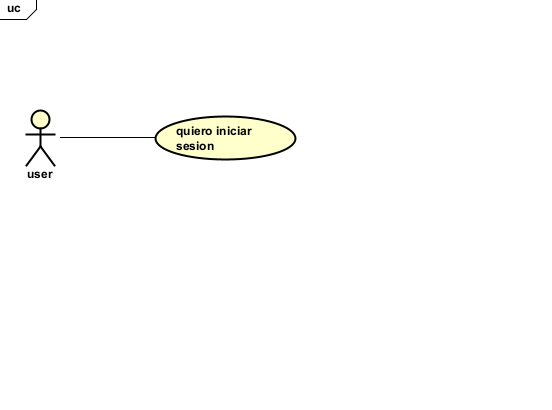
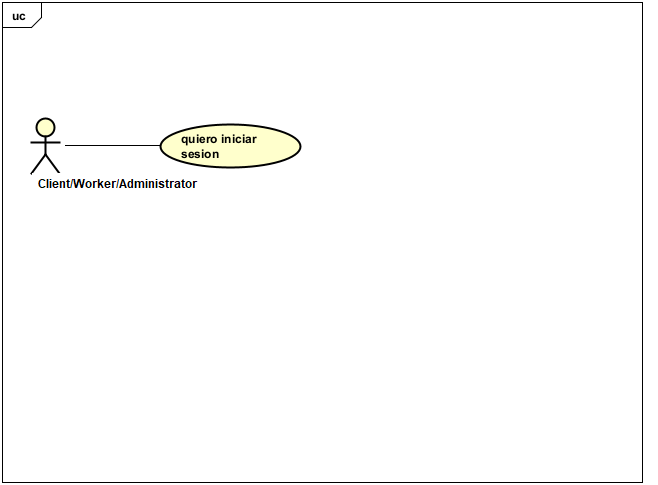
feat: se corrigieron ciertos requisitos

Changed region(s): [[0.0, 0.0, 0.9855, 1.0]]

diff --git a/OficioYa/src/main/resources/docs/requirments/requirments.md b/OficioYa/src/main/resources/docs/requirments/requirments.md
@@ -16,7 +16,7 @@ El sistema de OFICIOYA debe tener la capacidad de:
 
 4. El sistema debe permitir a un usuario autenticado cambiar su contraseña, validando previamente su contraseña actual.
 
-5. El sistema debe soportar la asignación de uno o varios roles a un mismo usuario (Trabajador, Contratante, Administrador).
+5. El sistema debe soportar la asignación de uno o varios roles a un mismo usuario (Client/Worker/Administrator).
 
 6. El sistema debe restringir el acceso a funcionalidades según el rol del usuario autenticado.
 
@@ -50,13 +50,13 @@ El sistema de OFICIOYA debe tener:
 | Campo | Descripción |
 |------|-------------|
 | **ID** | RF-01 |
-| **Nombre del requerimiento** | INICION DE SESIÓN  |
-| **Descripción** | El sistema debe permitir el inicio de sesión mediante usuario y contraseña, validando las credenciales contra la información de usuario gestionada por el User domain. Cada usuario debe ser unico, esto se validará por el microservicio USER DOMAIN donde deben validar esto al momento de crearla, la contraseña debe cumplir unos requisistos, si  se cumplen los requisitos , se revisa si la contraseña es la del usuario |
-| **Precondiciones** | Para que el sistema cumpla con este requerimiento,primero el usuario ya debio ser creado, debe ademas tener una contraseña que cumpla con los requisitos de seguridad estipulados . |
-| **Actor** |user |
-| **Flujo principal** | 1. el usuario ingresa a la aplicación 2. el usaurio ingresas sus credenciales (user y password) 3. se revisa si password ingresada cumple con los requisitos pleaneados 4. se realiza el proceso de autenticación  | 
-| **Diagrama de caso de uso** | ![Diagrama de caso de uso - Gestión del Torneo](../uml/CaseOfUse_GestionTorneo.png) |
-| **Poscondiciones** | Se espera como resultado que el torneo haya sido creado, actualizado o que su estado haya cambiado exitosamente en el sistema, reflejando la información actualizada para todos los usuarios. |
+| **Nombre del requerimiento** | INICIO DE SESIÓN  |
+| **Descripción** | El sistema debe permitir el inicio de sesión mediante usuario y contraseña, validando las credenciales contra la información de usuario gestionada por el User domain. Cada usuario debe ser único, esto se validará por el microservicio USER DOMAIN donde deben validar esto al momento de crearla, la contraseña debe cumplir unos requisitos, si  se cumplen los requisitos , se revisa si la contraseña es la del usuario |
+| **Precondiciones** | Para que el sistema cumpla con este requerimiento,primero el usuario ya debió haber sido creado, debe además tener una contraseña que cumpla con los requisitos de seguridad estipulados. |
+| **Actor** |Client/Worker/Administrator  |
+| **Flujo principal** | 1. El usuario ingresa a la aplicación<br>2. El usuario ingresa sus credenciales (user y password)<br>3. Se revisa si la contraseña ingresada cumple con los requisitos establecidos<br>4. Se realiza el proceso de autenticación.<br>5. Si las credenciales son válidas, el sistema genera un token JWT.<br>6. Si las credenciales son inválidas, el sistema rechaza el inicio de sesión. |
+| **Diagrama de caso de uso** | ![Diagrama de caso de uso - inicio de sesion](../images/iniciarSesion.png) |
+| **Postcondiciones** | Se espera como resultado que el usuario se haya autenticado exitosamente en el sistema, reflejando la información actualizada para todos los usuarios. |
 
 
 ### 2.2 Requerimiento Funcional 2
@@ -65,12 +65,12 @@ El sistema de OFICIOYA debe tener:
 |------|-------------|
 | **ID** | RF-02 |
 | **Nombre del requerimiento** | Rechazo inicio sesión |
-| **Descripción** | El sistema debe rechazar el inicio de sesión si la contraserña de un usuario es incorrecta o si el usuario no existe, el si se comprueba que el user no existe, se rechaza de una vez pero se si existe se comprueba si la contraseña ingresada cumple con los reuisitos, si no cumple se recahza automaticamente, si se cumple los requisitos se valida si es la contraseña y si no es se rechaza |
+| **Descripción** | El sistema debe rechazar el inicio de sesión si la contraseña de un usuario es incorrecta o si el usuario no existe, si se comprueba que el user no existe, se rechaza de una vez, pero si existe se comprueba si la contraseña ingresada cumple con los requisitos, si no cumple se recahza automaticamente, si se cumple los requisitos se valida si es la contraseña y si no es se rechaza |
 | **Precondiciones** | Para que el sistema cumpla con este requerimiento, el user debe tener una cuenta con credenciales válidas (nombre de usuario y contraseña) |
-| **Actor** | User|
+| **Actor** | Sistema|
 | **Flujo principal** | 1. El usuario ingresa sus credencial, tanto usuario como contraseña.<br>2. El sistema revisa si la contraseña ingresada cumple con los requisitos de seguridad, si no los cumple se rechaza.<br>3. El sistema valida las credenciales ingresadas .<br>4. si son incorrectas se rechazan las credenciales y se avisa al usuario sin revelar si es el usuario o la contraseña lo que es incorrecto |
-| **Diagrama de caso de uso** | ![Diagrama de caso de uso - Registrar Equipo](../uml/CaseOfUse_RegistrarEquipo.png) |
-| **Poscondiciones** | Se espera como resultado que el usuario este informado que las credenciales ingreadas estna mal y que haga las respectivas correciones |
+| **Diagrama de caso de uso** | ![Diagrama de caso de uso - Rechazo inicio sesion](../images/rechazoInicioSesion.png) |
+| **Postcondiciones** | Se espera como resultado que el usuario este informado que las credenciales ingreadas estna mal y que haga las respectivas correciones |
 
 ### 2.3 Requerimiento Funcional 3
 
@@ -84,7 +84,7 @@ El sistema de OFICIOYA debe tener:
 | **Actor** | Sistema |
 | **Flujo principal** | 1. El usuario ingresa una contraseña para ser cambiada.<br>2. El sistema evalúa las condiciones de seguridad de la contraseña.<br>3. Si no cumple, muestra mensaje de error.<br>4. Si cumple, permite continuar. |
 | **Diagrama de caso de uso** | ![futura imagen ya que yo la pondre despues](../uml/futura_imagen.png) |
-| **Poscondiciones** | *No aplica (mismas que su respectivo proceso base).* |
+| **Postcondiciones** | *No aplica (mismas que su respectivo proceso base).* |
 
 ### 2.4 Requerimiento Funcional 4
 
@@ -97,7 +97,7 @@ El sistema de OFICIOYA debe tener:
 | **Actor** | Usuario |
 | **Flujo principal** | 1. El usuario accede a la opción de cambio de contraseña.<br>2. si el usuario desea primero cambiar la contraseña ya autenticado , ingresa su contraseña actual yluego la nueva contraseña que debe cumplir con los requisitos de seguridad.<br>3. si el usuario desea cambiar la contraseña sin autenticarse primero , podra realizar otro proceso de autenticación el cual consiste en mandarle un codigo de seguridad por sms al celular registrado .<br>4. El sistema valida la contraseña nueva y si cumple con los requisitos , actualiza la contraseña y notifica el éxito de la operación. |
 | **Diagrama de caso de uso** | ![futura imagen ya que yo la pondre despues](../uml/futura_imagen.png) |
-| **Poscondiciones** | La contraseña se actualiza en el sistema y será requerida para el próximo inicio de sesión. |
+| **Postcondiciones** | La contraseña se actualiza en el sistema y será requerida para el próximo inicio de sesión. |
 
 ### 2.5 Requerimiento Funcional 5
 
@@ -105,12 +105,12 @@ El sistema de OFICIOYA debe tener:
 |------|-------------|
 | **ID** | RF-05 |
 | **Nombre del requerimiento** | Asignación de roles |
-| **Descripción** | El sistema debe soportar la asignación de uno o varios roles a un mismo usuario (Trabajador, Administrador). |
+| **Descripción** | El sistema debe soportar la asignación de uno o varios roles a un mismo usuario (Trabajador,Contratante, Administrador). |
 | **Precondiciones** | El usuario debe existir en el dominio de usuarios. |
 | **Actor** | Sistema / Administrador |
-| **Flujo principal** | 1. Se registra un nuevo usuario o se edita uno existente.<br>2. Se envían los roles deseados para el usuario.<br>3. El sistema asocia los roles seleccionados al ID del usuario en la base de datos. |
+| **Flujo principal** | 1.1. Se registra un nuevo usuario .<br>1.2. Se le asignan los roles al usuario nuevo (puede ser trabajador y/o contratante).<br>1.3. El sistema asocia los roles seleccionados al ID del usuario en la base de datos. |
 | **Diagrama de caso de uso** | ![futura imagen ya que yo la pondre despues](../uml/futura_imagen.png) |
-| **Poscondiciones** | El usuario queda con los roles asignados, lo cual definirá sus permisos de acceso. |
+| **Postcondiciones** | El usuario queda con los roles asignados, lo cual definirá sus permisos de acceso. |
 
 ### 2.6 Requerimiento Funcional 6
 
@@ -123,7 +123,7 @@ El sistema de OFICIOYA debe tener:
 | **Actor** | Sistema |
 | **Flujo principal** | 1. El usuario intenta acceder a una ruta protegida.<br>2. El sistema (API Gateway) verifica los roles en el token JWT.<br>3. Si el rol es insuficiente, rechaza la petición (403 Forbidden).<br>4. Si es correcto, permite la petición. |
 | **Diagrama de caso de uso** | ![futura imagen ya que yo la pondre despues](../uml/futura_imagen.png) |
-| **Poscondiciones** | el usuario accede a la ruta  |
+| **Postcondiciones** | el usuario accede a la ruta  |
 
 ### 2.7 Requerimiento Funcional 7
 
@@ -136,7 +136,7 @@ El sistema de OFICIOYA debe tener:
 | **Actor** | Sistema |
 | **Flujo principal** | 1. Credenciales validadas exitosamente.<br>2. El sistema crea el token JWT con los claims correspondientes.<br>3. El token es firmado y enviado al cliente en la respuesta. |
 | **Diagrama de caso de uso** | ![futura imagen ya que yo la pondre despues](../uml/futura_imagen.png) |
-| **Poscondiciones** 
+| **Postcondiciones** 
 ### 2.8 Requerimiento Funcional 8
 
 | Campo | Descripción |
@@ -148,18 +148,6 @@ El sistema de OFICIOYA debe tener:
 | **Actor** | Sistema |
 | **Flujo principal** | 1. El sistema recibe una contraseña en texto plano.<br>2. Se aplica la función de hash (ej. bcrypt).<br>3. La contraseña cifrada se almacena en base de datos o se compara con la existente. |
 | **Diagrama de caso de uso** | ![futura imagen ya que yo la pondre despues](../uml/futura_imagen.png) |
-| **Poscondiciones** | *No aplica.* |
+| **Postcondiciones** | *No aplica.* |
 
 
-
-## 4. Mockup
-
-### Requerimiento funcional seleccionado: RF-02 — Registrar Equipo
-
-Se seleccionó el requerimiento funcional **RF-02 (Registrar Equipo)** para el diseño de los mockups:
-
-### Diseño de Mockups — Flujo de Registro de Equipo
-
-Los mockups del flujo de navegación para el registro de un equipo fueron diseñados en **Figma** y pueden consultarse en el siguiente enlace:
-
-🔗 **[Ver Mockups en Figma — Flujo de Registro de Equipo](https://www.figma.com/design/NvDN2mIs8itoVR14fFOCbU/Flujo-Registro?node-id=0-1&t=sMDkfjVEIjFY629o-1)**

diff --git a/OficioYa/target/classes/docs/requirments/requirments.md b/OficioYa/target/classes/docs/requirments/requirments.md
@@ -16,7 +16,7 @@ El sistema de OFICIOYA debe tener la capacidad de:
 
 4. El sistema debe permitir a un usuario autenticado cambiar su contraseña, validando previamente su contraseña actual.
 
-5. El sistema debe soportar la asignación de uno o varios roles a un mismo usuario (Trabajador, Contratante, Administrador).
+5. El sistema debe soportar la asignación de uno o varios roles a un mismo usuario (Client/Worker/Administrator).
 
 6. El sistema debe restringir el acceso a funcionalidades según el rol del usuario autenticado.
 
@@ -50,13 +50,13 @@ El sistema de OFICIOYA debe tener:
 | Campo | Descripción |
 |------|-------------|
 | **ID** | RF-01 |
-| **Nombre del requerimiento** | INICION DE SESIÓN  |
-| **Descripción** | El sistema debe permitir el inicio de sesión mediante usuario y contraseña, validando las credenciales contra la información de usuario gestionada por el User domain. Cada usuario debe ser unico, esto se validará por el microservicio USER DOMAIN donde deben validar esto al momento de crearla, la contraseña debe cumplir unos requisistos, si  se cumplen los requisitos , se revisa si la contraseña es la del usuario |
-| **Precondiciones** | Para que el sistema cumpla con este requerimiento,primero el usuario ya debio ser creado, debe ademas tener una contraseña que cumpla con los requisitos de seguridad estipulados . |
-| **Actor** |user |
-| **Flujo principal** | 1. el usuario ingresa a la aplicación 2. el usaurio ingresas sus credenciales (user y password) 3. se revisa si password ingresada cumple con los requisitos pleaneados 4. se realiza el proceso de autenticación  | 
-| **Diagrama de caso de uso** | ![Diagrama de caso de uso - Gestión del Torneo](../uml/CaseOfUse_GestionTorneo.png) |
-| **Poscondiciones** | Se espera como resultado que el torneo haya sido creado, actualizado o que su estado haya cambiado exitosamente en el sistema, reflejando la información actualizada para todos los usuarios. |
+| **Nombre del requerimiento** | INICIO DE SESIÓN  |
+| **Descripción** | El sistema debe permitir el inicio de sesión mediante usuario y contraseña, validando las credenciales contra la información de usuario gestionada por el User domain. Cada usuario debe ser único, esto se validará por el microservicio USER DOMAIN donde deben validar esto al momento de crearla, la contraseña debe cumplir unos requisitos, si  se cumplen los requisitos , se revisa si la contraseña es la del usuario |
+| **Precondiciones** | Para que el sistema cumpla con este requerimiento,primero el usuario ya debió haber sido creado, debe además tener una contraseña que cumpla con los requisitos de seguridad estipulados. |
+| **Actor** |Client/Worker/Administrator  |
+| **Flujo principal** | 1. El usuario ingresa a la aplicación<br>2. El usuario ingresa sus credenciales (user y password)<br>3. Se revisa si la contraseña ingresada cumple con los requisitos establecidos<br>4. Se realiza el proceso de autenticación.<br>5. Si las credenciales son válidas, el sistema genera un token JWT.<br>6. Si las credenciales son inválidas, el sistema rechaza el inicio de sesión. |
+| **Diagrama de caso de uso** | ![Diagrama de caso de uso - inicio de sesion](../images/iniciarSesion.png) |
+| **Postcondiciones** | Se espera como resultado que el usuario se haya autenticado exitosamente en el sistema, reflejando la información actualizada para todos los usuarios. |
 
 
 ### 2.2 Requerimiento Funcional 2
@@ -65,12 +65,12 @@ El sistema de OFICIOYA debe tener:
 |------|-------------|
 | **ID** | RF-02 |
 | **Nombre del requerimiento** | Rechazo inicio sesión |
-| **Descripción** | El sistema debe rechazar el inicio de sesión si la contraserña de un usuario es incorrecta o si el usuario no existe, el si se comprueba que el user no existe, se rechaza de una vez pero se si existe se comprueba si la contraseña ingresada cumple con los reuisitos, si no cumple se recahza automaticamente, si se cumple los requisitos se valida si es la contraseña y si no es se rechaza |
+| **Descripción** | El sistema debe rechazar el inicio de sesión si la contraseña de un usuario es incorrecta o si el usuario no existe, si se comprueba que el user no existe, se rechaza de una vez, pero si existe se comprueba si la contraseña ingresada cumple con los requisitos, si no cumple se recahza automaticamente, si se cumple los requisitos se valida si es la contraseña y si no es se rechaza |
 | **Precondiciones** | Para que el sistema cumpla con este requerimiento, el user debe tener una cuenta con credenciales válidas (nombre de usuario y contraseña) |
-| **Actor** | User|
+| **Actor** | Sistema|
 | **Flujo principal** | 1. El usuario ingresa sus credencial, tanto usuario como contraseña.<br>2. El sistema revisa si la contraseña ingresada cumple con los requisitos de seguridad, si no los cumple se rechaza.<br>3. El sistema valida las credenciales ingresadas .<br>4. si son incorrectas se rechazan las credenciales y se avisa al usuario sin revelar si es el usuario o la contraseña lo que es incorrecto |
-| **Diagrama de caso de uso** | ![Diagrama de caso de uso - Registrar Equipo](../uml/CaseOfUse_RegistrarEquipo.png) |
-| **Poscondiciones** | Se espera como resultado que el usuario este informado que las credenciales ingreadas estna mal y que haga las respectivas correciones |
+| **Diagrama de caso de uso** | ![Diagrama de caso de uso - Rechazo inicio sesion](../images/rechazoInicioSesion.png) |
+| **Postcondiciones** | Se espera como resultado que el usuario este informado que las credenciales ingreadas estna mal y que haga las respectivas correciones |
 
 ### 2.3 Requerimiento Funcional 3
 
@@ -84,7 +84,7 @@ El sistema de OFICIOYA debe tener:
 | **Actor** | Sistema |
 | **Flujo principal** | 1. El usuario ingresa una contraseña para ser cambiada.<br>2. El sistema evalúa las condiciones de seguridad de la contraseña.<br>3. Si no cumple, muestra mensaje de error.<br>4. Si cumple, permite continuar. |
 | **Diagrama de caso de uso** | ![futura imagen ya que yo la pondre despues](../uml/futura_imagen.png) |
-| **Poscondiciones** | *No aplica (mismas que su respectivo proceso base).* |
+| **Postcondiciones** | *No aplica (mismas que su respectivo proceso base).* |
 
 ### 2.4 Requerimiento Funcional 4
 
@@ -97,7 +97,7 @@ El sistema de OFICIOYA debe tener:
 | **Actor** | Usuario |
 | **Flujo principal** | 1. El usuario accede a la opción de cambio de contraseña.<br>2. si el usuario desea primero cambiar la contraseña ya autenticado , ingresa su contraseña actual yluego la nueva contraseña que debe cumplir con los requisitos de seguridad.<br>3. si el usuario desea cambiar la contraseña sin autenticarse primero , podra realizar otro proceso de autenticación el cual consiste en mandarle un codigo de seguridad por sms al celular registrado .<br>4. El sistema valida la contraseña nueva y si cumple con los requisitos , actualiza la contraseña y notifica el éxito de la operación. |
 | **Diagrama de caso de uso** | ![futura imagen ya que yo la pondre despues](../uml/futura_imagen.png) |
-| **Poscondiciones** | La contraseña se actualiza en el sistema y será requerida para el próximo inicio de sesión. |
+| **Postcondiciones** | La contraseña se actualiza en el sistema y será requerida para el próximo inicio de sesión. |
 
 ### 2.5 Requerimiento Funcional 5
 
@@ -105,12 +105,12 @@ El sistema de OFICIOYA debe tener:
 |------|-------------|
 | **ID** | RF-05 |
 | **Nombre del requerimiento** | Asignación de roles |
-| **Descripción** | El sistema debe soportar la asignación de uno o varios roles a un mismo usuario (Trabajador, Administrador). |
+| **Descripción** | El sistema debe soportar la asignación de uno o varios roles a un mismo usuario (Trabajador,Contratante, Administrador). |
 | **Precondiciones** | El usuario debe existir en el dominio de usuarios. |
 | **Actor** | Sistema / Administrador |
-| **Flujo principal** | 1. Se registra un nuevo usuario o se edita uno existente.<br>2. Se envían los roles deseados para el usuario.<br>3. El sistema asocia los roles seleccionados al ID del usuario en la base de datos. |
+| **Flujo principal** | 1.1. Se registra un nuevo usuario .<br>1.2. Se le asignan los roles al usuario nuevo (puede ser trabajador y/o contratante).<br>1.3. El sistema asocia los roles seleccionados al ID del usuario en la base de datos. |
 | **Diagrama de caso de uso** | ![futura imagen ya que yo la pondre despues](../uml/futura_imagen.png) |
-| **Poscondiciones** | El usuario queda con los roles asignados, lo cual definirá sus permisos de acceso. |
+| **Postcondiciones** | El usuario queda con los roles asignados, lo cual definirá sus permisos de acceso. |
 
 ### 2.6 Requerimiento Funcional 6
 
@@ -123,7 +123,7 @@ El sistema de OFICIOYA debe tener:
 | **Actor** | Sistema |
 | **Flujo principal** | 1. El usuario intenta acceder a una ruta protegida.<br>2. El sistema (API Gateway) verifica los roles en el token JWT.<br>3. Si el rol es insuficiente, rechaza la petición (403 Forbidden).<br>4. Si es correcto, permite la petición. |
 | **Diagrama de caso de uso** | ![futura imagen ya que yo la pondre despues](../uml/futura_imagen.png) |
-| **Poscondiciones** | el usuario accede a la ruta  |
+| **Postcondiciones** | el usuario accede a la ruta  |
 
 ### 2.7 Requerimiento Funcional 7
 
@@ -136,7 +136,7 @@ El sistema de OFICIOYA debe tener:
 | **Actor** | Sistema |
 | **Flujo principal** | 1. Credenciales validadas exitosamente.<br>2. El sistema crea el token JWT con los claims correspondientes.<br>3. El token es firmado y enviado al cliente en la respuesta. |
 | **Diagrama de caso de uso** | ![futura imagen ya que yo la pondre despues](../uml/futura_imagen.png) |
-| **Poscondiciones** 
+| **Postcondiciones** 
 ### 2.8 Requerimiento Funcional 8
 
 | Campo | Descripción |
@@ -148,18 +148,6 @@ El sistema de OFICIOYA debe tener:
 | **Actor** | Sistema |
 | **Flujo principal** | 1. El sistema recibe una contraseña en texto plano.<br>2. Se aplica la función de hash (ej. bcrypt).<br>3. La contraseña cifrada se almacena en base de datos o se compara con la existente. |
 | **Diagrama de caso de uso** | ![futura imagen ya que yo la pondre despues](../uml/futura_imagen.png) |
-| **Poscondiciones** | *No aplica.* |
+| **Postcondiciones** | *No aplica.* |
 
 
-
-## 4. Mockup
-
-### Requerimiento funcional seleccionado: RF-02 — Registrar Equipo
-
-Se seleccionó el requerimiento funcional **RF-02 (Registrar Equipo)** para el diseño de los mockups:
-
-### Diseño de Mockups — Flujo de Registro de Equipo
-
-Los mockups del flujo de navegación para el registro de un equipo fueron diseñados en **Figma** y pueden consultarse en el siguiente enlace:
-
-🔗 **[Ver Mockups en Figma — Flujo de Registro de Equipo](https://www.figma.com/design/NvDN2mIs8itoVR14fFOCbU/Flujo-Registro?node-id=0-1&t=sMDkfjVEIjFY629o-1)**
